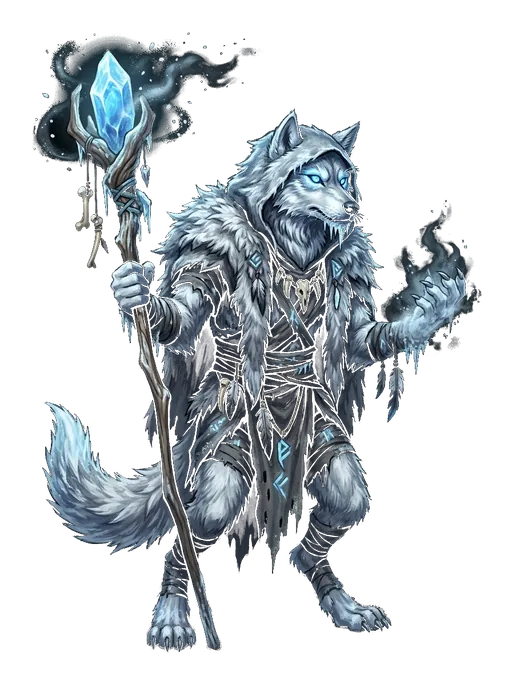
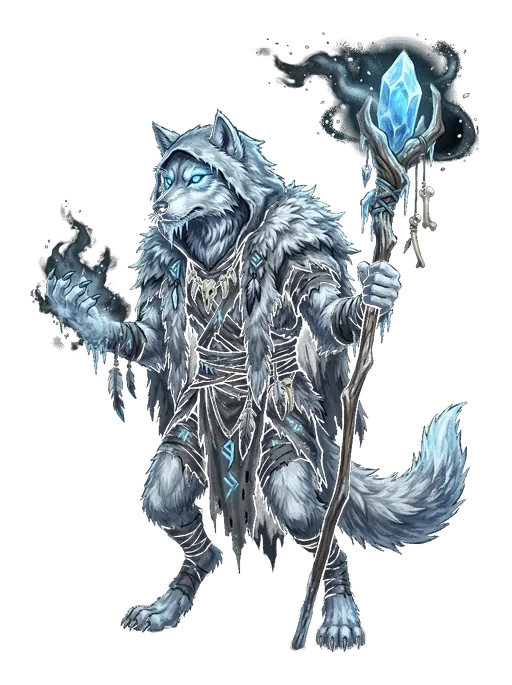
fix(pve): bake+lock ch2 support (Шаман инея) face left
Re-bake wolf-support-cutout.webp pixel-LEFT and keep it in
MONSTER_NATIVE_FACE_LEFT so CSS cannot remirror it (D-040).
Cache-bust app.js?v=d040ch2s.

diff --git a/client/web-hud/public/app.js b/client/web-hud/public/app.js
@@ -3316,8 +3316,8 @@ const DUMMY_NATIVE_FACE_LEFT = new Set([
 ]);
 // Only assets authored aiming/looking LEFT. Default native = RIGHT → flip for desired left.
 // Do NOT list: ranger-a, tank-b, wolf-tank/pitboss (shield/glow RIGHT → flip).
-// fighter-h (ch1 Пёс-задира) re-baked pixel-LEFT + listed — lock so CSS never mirrors it away
-// (Andrew: боец смотрел направо). Ch3 redd-* same bake+list pattern.
+// Pixel-LEFT locks (listed so CSS never mirrors them away):
+// fighter-h (ch1 Пёс-задира), wolf-support-cutout (ch2 Шаман инея), ch3 redd-*.
 const MONSTER_NATIVE_FACE_LEFT = new Set([
   "assassin-b",
   "fighter-f",

diff --git a/client/web-hud/public/index.html b/client/web-hud/public/index.html
@@ -6846,6 +6846,6 @@
   </aside>
 
   <nav id="hubTabs" class="hidden" aria-hidden="true"></nav>
-  <script type="module" src="/app.js?v=d040ch1f"></script>
+  <script type="module" src="/app.js?v=d040ch2s"></script>
 </body>
 </html>

diff --git a/client/web-hud/public/stitch-assets/monsters/battle/README.md b/client/web-hud/public/stitch-assets/monsters/battle/README.md
@@ -16,6 +16,7 @@ Wiring: `monsterBattleArt` / `battleUnitArt` in `app.js` — **faction pools** (
 Ch1 dogs → grey armored cutouts (`tank-b` / `fighter-h` / `ranger-a`, pitboss `tank-d`).
 `fighter-h` = обычный пёс (dual clubs), pixel-authored facing **left** + `MONSTER_NATIVE_FACE_LEFT` (locked). Do not map ch1 to `fighter-b` — that red dual-axe plate is ch3.
 Ch2 wolves → RGBA `wolf-*-cutout.webp` (tank/fighter/support/pitboss). Do not reintroduce RGB studio plates.
+`wolf-support-cutout` (Шаман инея) pixel-authored facing **left** + `MONSTER_NATIVE_FACE_LEFT` (locked).
 Ch3 red dogs → RGBA `redd-*-cutout.webp` (shield tank / dual-axe fighter / flaming-sickle support / flaming-sword pitboss). All four pixel-authored facing **left** (D-040); listed in `MONSTER_NATIVE_FACE_LEFT`.
 Ch4 zombies → RGBA `zombie-*-cutout.webp` (axe tank / cleaver fighter / dagger support / scythe pitboss).
 Ch5 ghosts → RGBA `ghost-*-cutout.webp` (flail-shield tank / scimitar fighter / shaman support / banner-sword pitboss).
